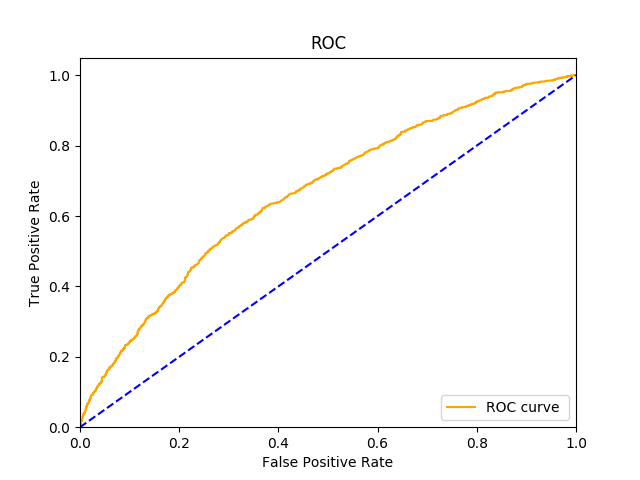
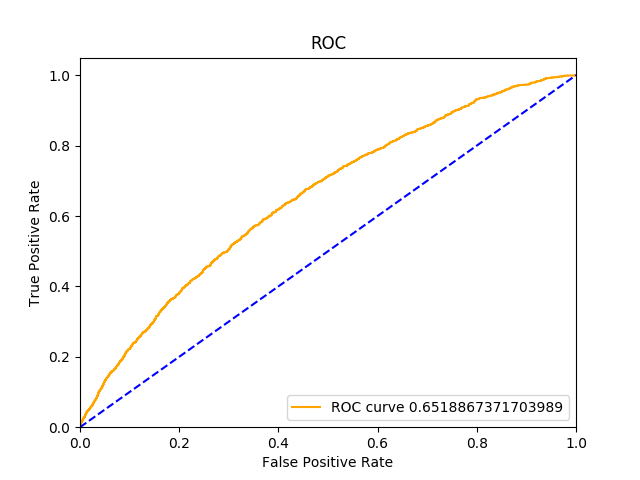
much nicer splitting function used for main, general tidying

diff --git a/random_forests_main.py b/random_forests_main.py
@@ -28,54 +28,50 @@ def ROC_curve(fpr, tpr, savename):
     plt.show()
     print("AUC: ", roc_auc)
 
-
 # reduced matrix loading
 
-feature_matrix = pd.read_table("FMs/FM_mast_boruta_reduced.csv", sep=",", index_col=0)
+feature_matrix_1 = pd.read_table("feature_matrix_2_mast_boruta_reduced.csv", sep=",", index_col=0)
 
-feature_matrix_zeroed = feature_matrix.fillna(value=0)
+feature_matrix_1_zeroed = feature_matrix_1.fillna(value=0)
 
+unsplitY_1 = feature_matrix_1_zeroed.loc[:,'_label']
+unsplitX_1 = feature_matrix_1_zeroed.loc[:, feature_matrix_1_zeroed.columns.values != '_label']
 
-# 60, 20, 20
-train, validate, test = np.split(feature_matrix_zeroed.sample(frac=1),
-                                 [int(.6*len(feature_matrix_zeroed)), int(.8*len(feature_matrix_zeroed))])
-
-features = train.columns[:-1]
-y = train.loc[:,'_label']
+X_train_1, X_test_1, y_train_1, y_test_1 = train_test_split(unsplitX_1, unsplitY_1, test_size=0.33)
 
 # nonreduced matrix loading
-
 
 feature_matrix_2 = pd.read_table("feature_matrix_2.csv", sep=",", index_col=0)
 
 feature_matrix_2_zeroed = feature_matrix_2.fillna(value=0)
 
+unsplitY_2 = feature_matrix_2_zeroed.loc[:,'_label']
+unsplitX_2 = feature_matrix_2_zeroed.loc[:, feature_matrix_2_zeroed.columns.values != '_label']
 
-# 60, 20, 20
-train_2, validate_2, test_2 = np.split(feature_matrix_2_zeroed.sample(frac=1),
-                                 [int(.6*len(feature_matrix_2_zeroed)), int(.8*len(feature_matrix_2_zeroed))])
-
-features_2 = train_2.columns[1:]
-y_2 = train_2.loc[:,'_label']
+X_train_2, X_test_2, y_train_2, y_test_2 = train_test_split(unsplitX_2, unsplitY_2, test_size=0.33)
 
 # first probe model
 
 classifier1 = GradientBoostingClassifier(loss='deviance', n_estimators=60)
-classifier1.fit(train[features], y)
+classifier1.fit(X_train_1, y_train_1)
 
-predictions1 = classifier1.predict(test[features])
+predictions1 = classifier1.predict(X_test_1)
+
+probabilities1 = classifier1.predict_proba(X_test_1)
+fpr, tpr, thresholds = roc_curve(y_test_1, probabilities1[:,1], pos_label=1)
+ROC_curve(fpr, tpr, 'ROC2.png')
 # see how many incorrect classifications we do
-crosstab1 = pd.crosstab(test['_label'], predictions1, rownames=['Actual'], colnames=['Predicted'])
+crosstab1 = pd.crosstab(y_test_1, predictions1, rownames=['Actual'], colnames=['Predicted'])
 print(crosstab1)
 # print a matrix of tuples of feature names and feature importances
-list(zip(train[features], classifier1.feature_importances_))
-#plt.plot( classifier1.feature_importances_)
+classifier1_feature_importances = list(zip(X_train_1.columns.values, classifier1.feature_importances_))
+plt.plot(classifier1.feature_importances_)
 #plt.show()
 # get the most important motifs for the random forest
 #print(features[np.nonzero(classifier1.feature_importances_ > 0.003)])
 
-probabilities1 = classifier1.predict_proba(test.loc[:, test.columns!='_label'])
-fpr, tpr, thresholds = roc_curve(test['_label'], probabilities1[:,1], pos_label=1)
+probabilities1 = classifier1.predict_proba(X_test_1)
+fpr, tpr, thresholds = roc_curve(y_test_1, probabilities1[:,1], pos_label=1)
 ROC_curve(fpr, tpr, 'ROCgradboost1.png')
 
 # model 2 using much bigger tree ensemble
@@ -91,16 +87,21 @@ jb.dump(classifier2, "classifier2.joblib", compress=1)
 
 classifier2 = jb.load('classifier2.joblib')
 
-predictions2 = classifier2.predict(test[features])
+predictions2 = classifier2.predict(X_test_1)
 
 # see how many incorrect classifications we do
-crosstab2 = pd.crosstab(test['_label'], predictions2, rownames=['Actual'], colnames=['Predicted'])
+crosstab2 = pd.crosstab(y_test_1, predictions2, rownames=['Actual'], colnames=['Predicted'])
 print(crosstab2)
 # print a matrix of tuples of feature names and feature importances
-featureImportances2 = (zip(train[features], classifier2.feature_importances_))
-print(featureImportances2)
+classifier2_feature_importances = list(zip(X_train_1.columns.values, classifier2.feature_importances_))
+print(classifier2_feature_importances)
 plt.plot(classifier2.feature_importances_)
-plt.show()
+
+# lets try to do ROC
+# compute probabilities for the ROC function
+probabilities2 = classifier2.predict_proba(X_test_1)
+fpr, tpr, thresholds = roc_curve(y_test_1, probabilities2[:,1], pos_label=1)
+ROC_curve(fpr, tpr, 'ROC2.png')
 
 # model 3 using nonreduced feature dataset
 
@@ -108,23 +109,21 @@ plt.show()
 classifier3 = RandomForestClassifier(n_jobs=2, n_estimators=10000, max_features=int(sqrt(len(features_2))), max_depth=None,
                                      min_samples_split=2)
 
-classifier3.fit(train_2[features_2], y_2)
+classifier3.fit(X_train_2, y_train_2)
 
 jb.dump(classifier3, "classifier3.joblib", compress=1)
 '''
 
 classifier3 = jb.load("classifier3.joblib")
 
-predictions3 = classifier3.predict(test_2[features_2])
+predictions3 = classifier3.predict(X_test_2)
 
 # see how many incorrect classifications we do
-crosstab3 = pd.crosstab(test_2['_label'], predictions3, rownames=['Actual'], colnames=['Predicted'])
+crosstab3 = pd.crosstab(y_test_2, predictions3, rownames=['Actual'], colnames=['Predicted'])
 print(crosstab3)
 # print a matrix of tuples of feature names and feature importances
-featureImportances3 = list(zip(train_2[features_2], classifier3.feature_importances_))
-print(featureImportances3)
+classifier3_feature_importances = list(zip(X_train_2.columns.values, classifier3.feature_importances_))
 plt.plot(classifier3.feature_importances_)
-plt.show()
 
 # model 4 using bigger tree ensemble with reduced data
 # does using 10k trees improve over just 1k?
@@ -132,22 +131,20 @@ plt.show()
 classifier4 = RandomForestClassifier(n_jobs=2, n_estimators=1000, max_features=int(sqrt(len(features))), max_depth=None,
                                      min_samples_split=2)
 
-classifier4.fit(train[features], y)
+classifier4.fit(X_train_1, y_train_1)
 
 jb.dump(classifier4, "classifier4.joblib", compress=1)
 
 #classifier4 = jb.load('classifier2.joblib')
 
-predictions4 = classifier4.predict(test[features])
+predictions4 = classifier4.predict(X_test_1)
 
 # see how many incorrect classifications we do
-crosstab4 = pd.crosstab(test['_label'], predictions4, rownames=['Actual'], colnames=['Predicted'])
+crosstab4 = pd.crosstab(X_test_1, predictions4, rownames=['Actual'], colnames=['Predicted'])
 print(crosstab4)
 # print a matrix of tuples of feature names and feature importances
-featureImportances4 = (zip(train[features], classifier4.feature_importances_))
-print(featureImportances4)
+classifier4_feature_importances = (zip(X_test_1.columns.values, classifier4.feature_importances_))
 plt.plot(classifier4.feature_importances_)
-plt.show()
 
 # so is it better?
 
@@ -167,15 +164,9 @@ Actual
 
 # not particularly, no. but need better way to classify performance
 
-# lets try to do ROC
-# compute probabilities for the ROC function
-probabilities2 = classifier2.predict_proba(test.loc[:, test.columns!='_label'])
-fpr, tpr, thresholds = roc_curve(test['_label'], probabilities2[:,1], pos_label=1)
-ROC_curve(fpr, tpr, 'ROC2.png')
 
-
-probabilities4 = classifier4.predict_proba(test.loc[:, test.columns!='_label'])
-fpr, tpr, thresholds = roc_curve(test['_label'], probabilities4[:,1], pos_label=1)
+probabilities4 = classifier4.predict_proba(X_test_1)
+fpr, tpr, thresholds = roc_curve(y_test_1, probabilities4[:,1], pos_label=1)
 ROC_curve(fpr, tpr, 'ROC4.png')
 
 # there really is no difference between 10k and 1k trees.
@@ -186,4 +177,4 @@ ROC_curve(fpr, tpr, 'ROC4.png')
 classifier5 = RandomForestClassifier(n_jobs=2, n_estimators=1000, max_features=int(sqrt(len(features))), max_depth=None,
                                      min_samples_split=2)
 
-classifier5.fit(train_2[features_2], y_2)
+classifier5.fit(X_train_2, y_train_2)
